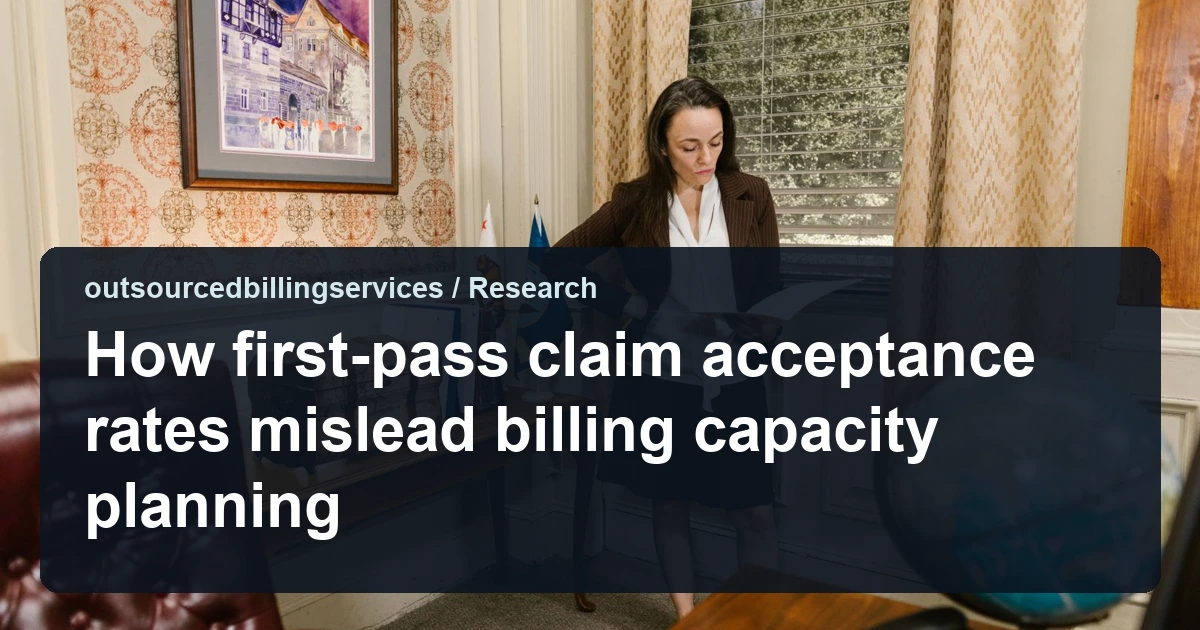
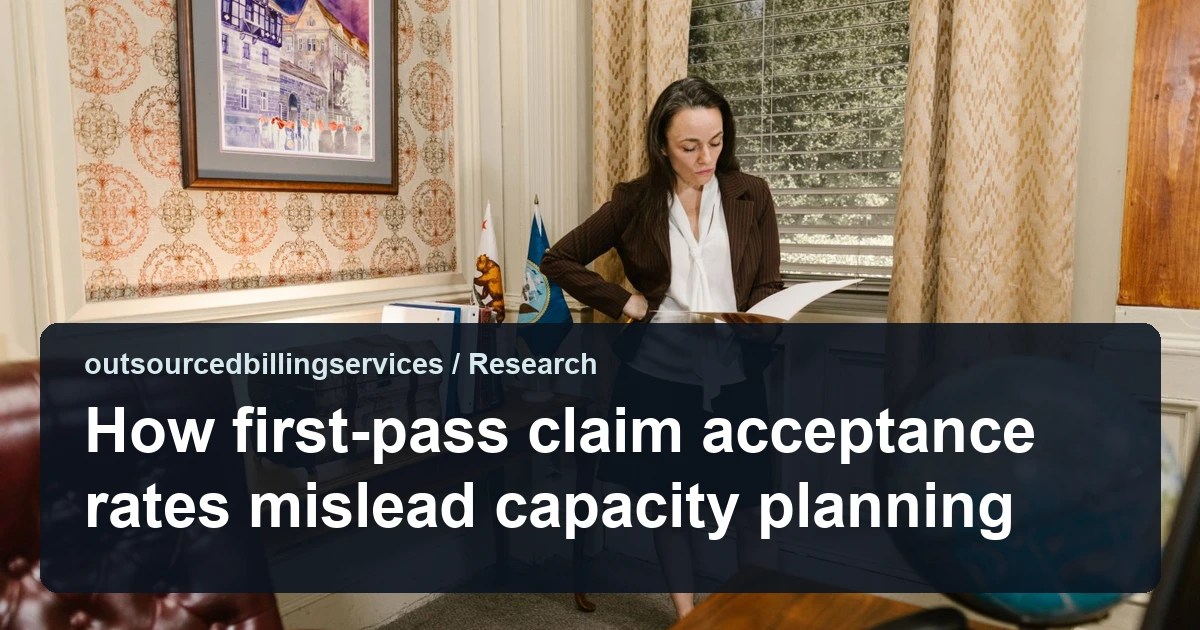
fix: align 2026-11-09 research title with its slug

Changed region(s): [[0.0308, 0.3921, 0.9867, 0.6333], [0.0617, 0.6333, 0.8633, 0.754], [0.0617, 0.754, 0.8633, 0.8746]]

diff --git a/app/nov09-research.ts b/app/nov09-research.ts
@@ -2,7 +2,7 @@
 export const nov09ResearchBatch = [
  {
   "slug": "how-first-pass-claim-acceptance-rates-mislead-capacity-planning",
-  "title": "How first-pass claim acceptance rates mislead billing capacity planning",
+  "title": "How first-pass claim acceptance rates mislead capacity planning",
   "excerpt": "An analysis of what first-pass acceptance measures, which work it hides, and how billing teams can pair it with rework data for capacity decisions.",
   "body": [
    "## Question and scope",
